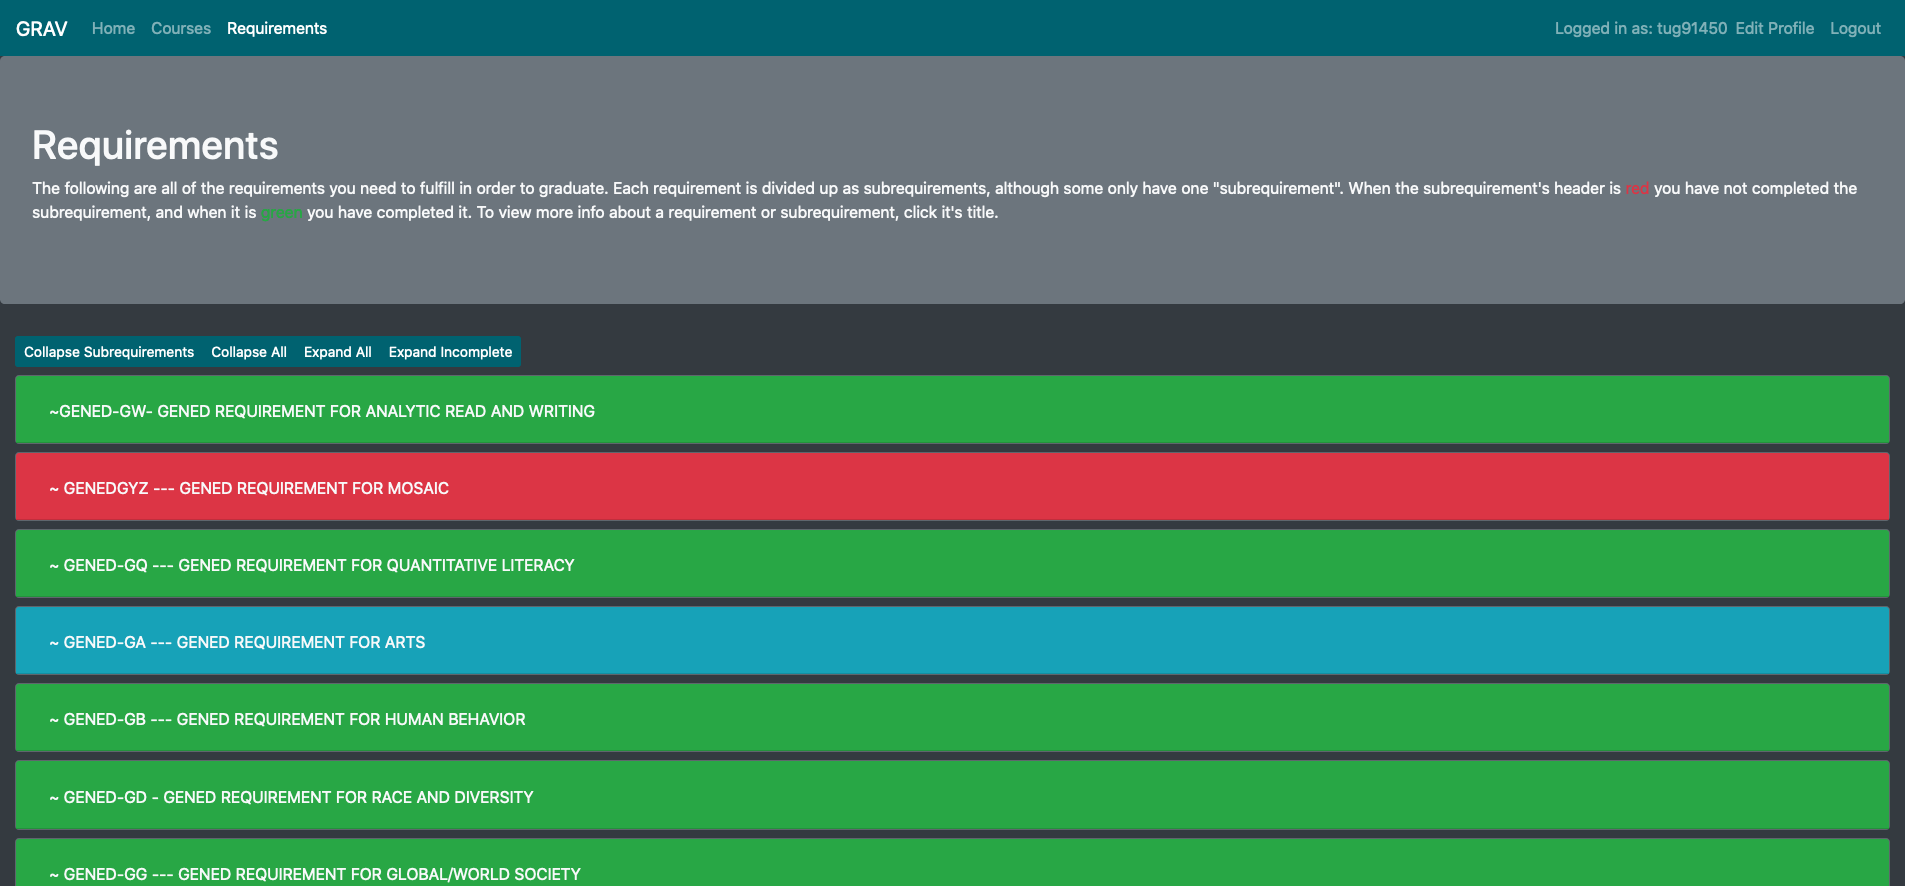
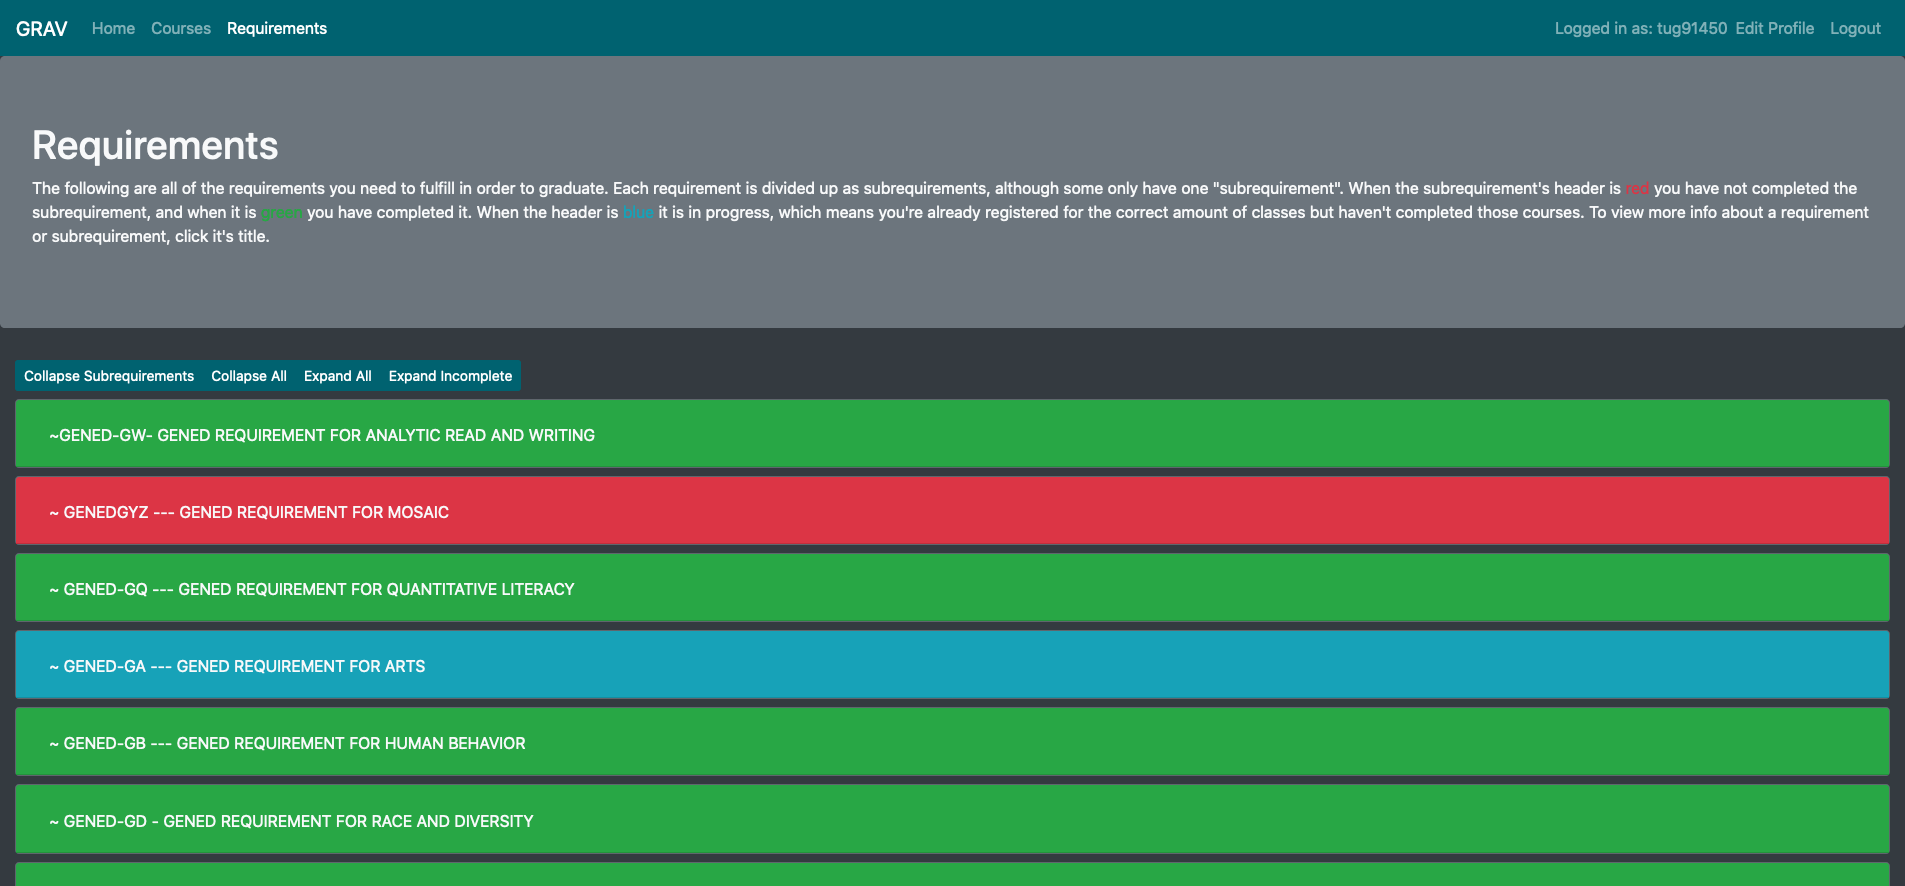
Add text for in progress explaination

Changed region(s): [[0.0, 0.3352, 1.0, 1.0], [0.2478, 0.2133, 0.9911, 0.2438], [0.031, 0.2438, 0.1549, 0.2743]]

diff --git a/frontend/src/pages/dashboard/requirements.js b/frontend/src/pages/dashboard/requirements.js
@@ -169,6 +169,8 @@ class Requirements extends React.Component {
                     Each requirement is divided up as subrequirements, although some only have one "subrequirement".
                     When the subrequirement's header is <span className="text-danger">red</span> you have not completed the
                     subrequirement, and when it is <span className="text-success">green</span> you have completed it.
+                    When the header is <span className="text-info">blue</span> it is in progress, which means you're
+                    already registered for the correct amount of classes but haven't completed those courses.
                     To view more info about a requirement or subrequirement, click it's title.
                 </p>
             </Jumbotron>
